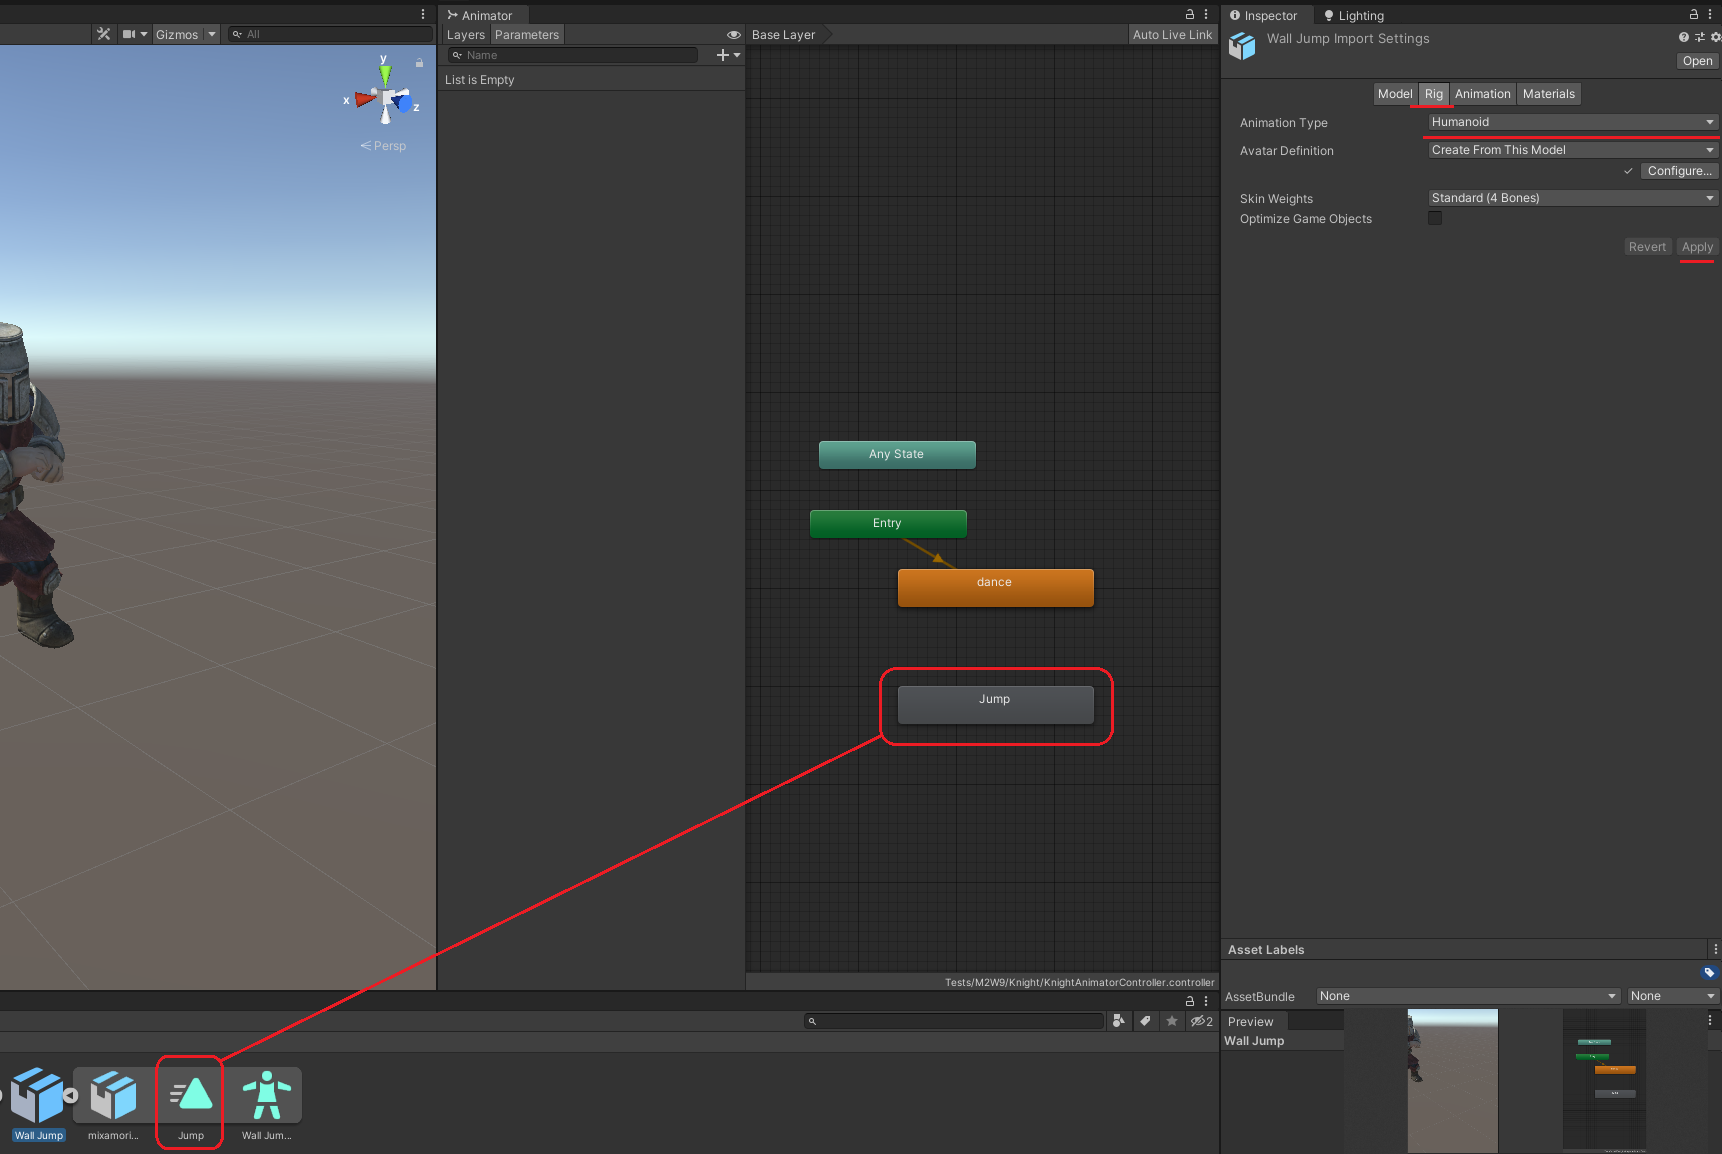
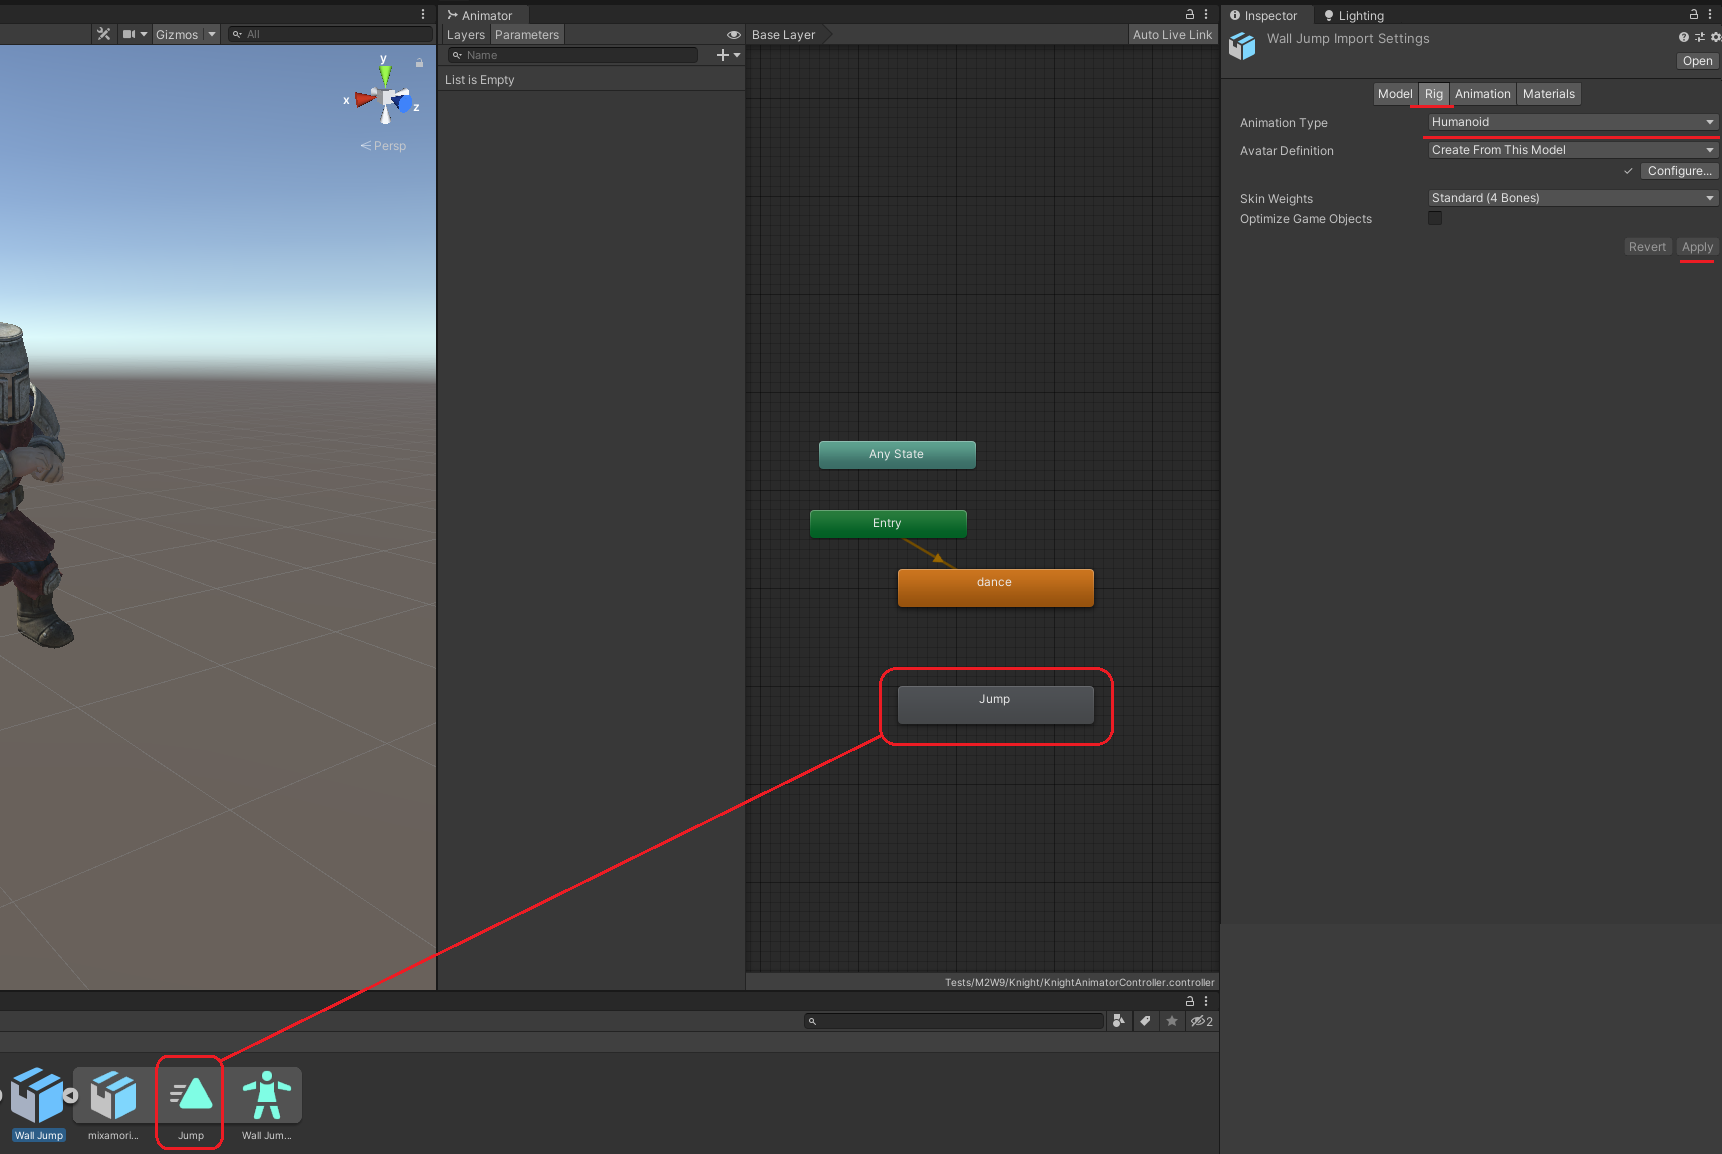
Task2 Updated

diff --git a/Task2.md b/Task2.md
@@ -14,14 +14,14 @@
 
 3. Добавь анимации в Animator Controller
 
-<img src="https://github.com/copetonrob/YP_Unity_M2_W9/blob/main/img/task2_unity1.png" width="600"/>
+<img src="https://github.com/copetonrob/YP_Unity_M2_W9/blob/main/img/task2_unity1.png" width="800"/>
 
 4. Добавь переходы между анимациями
 
-<img src="https://github.com/copetonrob/YP_Unity_M2_W9/blob/main/img/task2_unity3.png" width="400"/>
+<img src="https://github.com/copetonrob/YP_Unity_M2_W9/blob/main/img/task2_unity3.png" width="600"/>
 
 5. Настрой переходы между анимациями
 
-<img src="https://github.com/copetonrob/YP_Unity_M2_W9/blob/main/img/task2_unity2.png" width="400"/>
+<img src="https://github.com/copetonrob/YP_Unity_M2_W9/blob/main/img/task2_unity2.png" width="600"/>
 
 6. Запусти проект и проверь, что анимации проигрываются и сменяют друг друга.
